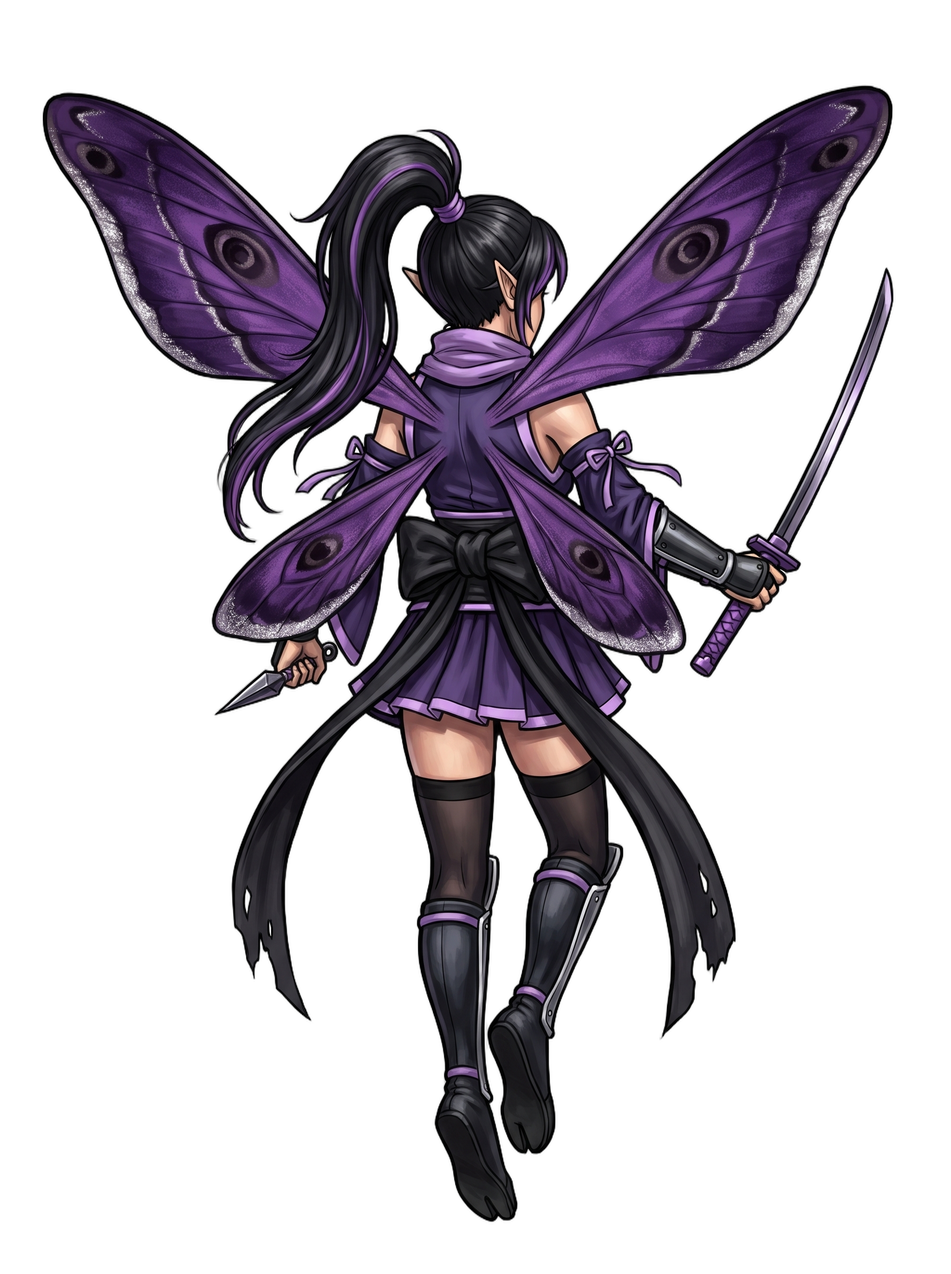
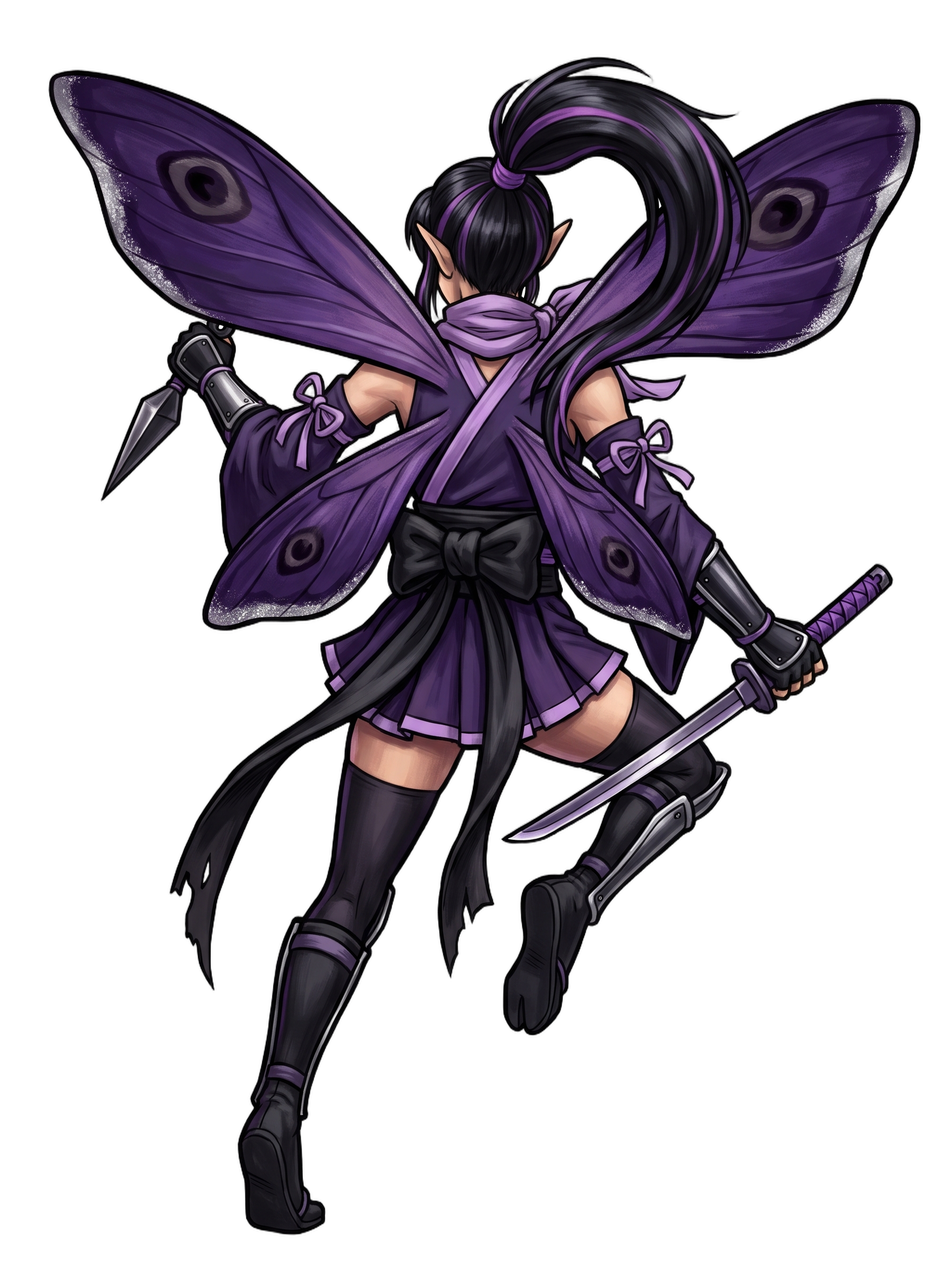
에이다 백뷰 확정, 카스미 백뷰 역동 자세로 교체
- 에이다 백뷰 확정 (첨부 방식, 날개 복사 방지 문장 추가)
- 동료 백뷰 지시문에 날개 복사 방지 문장 기본 포함
- 첨부 방식 자세 해제 시험(지시문, 2단계 편집) 실패 기록
- 주인공 역동/준비 자세 시험(dynamic, v4) 기록, 주인공은 v3 유지 결정
- 카스미 백뷰를 텍스트 전용 역동 준비 자세로 교체

diff --git a/docs/art_prompts/partners.md b/docs/art_prompts/partners.md
@@ -41,7 +41,7 @@
 
 블록 조합: `[LAYER_SPRITE_HEAD] + [VIEW] + [IDENTITY] + [FACE] + [OUTFIT] + [POSE] + [PALETTE] + [STYLE_BASE] + [LAYER_SPRITE_TAIL]`
 - `cutin`: VIEW_ILLUST + POSE_CUTIN (첨부: `fairy_base.png`, 지시문: 화풍 참고)
-- `battle_back`: 가이드 1.1.1 조합 (VIEW_BATTLE_BACK + IDENTITY_BACK + OUTFIT_BACK + POSE_BATTLE_BACK + STYLE_BASE_BACK, FACE 없음). 첨부: `assets/characters/fairy/fairy_battle_back.png`, 지시문: `Match the art style and composition of the attached image (a different character). Only the camera angle, framing, hovering stance and art style follow the attached image; the character, outfit and colors are entirely different, as described below.` (가이드 규칙 8). 동료별 IDENTITY_BACK/OUTFIT_BACK은 백뷰 생성 시 작성하고, 아래 POSE_BATTLE_BACK도 그때 대기 자세(공중 제자리, 오른쪽 위 주시)로 다시 쓴다.
+- `battle_back`: 가이드 1.1.1 조합 (VIEW_BATTLE_BACK + IDENTITY_BACK + OUTFIT_BACK + POSE_BATTLE_BACK + STYLE_BASE_BACK, FACE 없음). 첨부: `assets/characters/fairy/fairy_battle_back.png`, 지시문: `Match the art style and composition of the attached image (a different character). Only the camera angle, framing, hovering stance and art style follow the attached image; the character, outfit and colors are entirely different, as described below. Do not copy the wings of the attached image; draw the wings exactly as described in the text.` (가이드 규칙 8. 날개 문장은 2026-11-12 에이다 1차에서 날개 모양이 주인공 것을 따라가 추가). 동료별 IDENTITY_BACK/OUTFIT_BACK은 백뷰 생성 시 작성하고, 아래 POSE_BATTLE_BACK도 그때 대기 자세(공중 제자리, 오른쪽 위 주시)로 다시 쓴다.
 - FACE는 캐릭터별 블록에 적힌 종류를 쓴다. 비요른은 FACE 없이 조합한다. `battle_back`은 얼굴이 보이지 않아야 하므로 전원 FACE 없이 조합한다 (2026-11-11 추가).
 
 **FACE_FEMALE** (여성 동료 공통)
@@ -107,9 +107,17 @@ Color palette: gold, brass, midnight blue, honey yellow, brown leather.
 ```
 Pose: floating in mid-air raising the hourglass staff high with one hand, holding up the open pocket watch toward the viewer with the other, cheerful wink.
 ```
-**POSE_BATTLE_BACK**
+**IDENTITY_BACK** (전투 백뷰 전용, 2026-11-12 추가. 눈·미소·이마의 고글 렌즈 삭제, 고글은 뒤통수 가죽끈으로 표기)
 ```
-Pose: floating facing away from the viewer toward the enemy, hourglass staff held up, tailcoat tails and bustle skirt, hair buns with goggles and golden gear-patterned wings clearly visible.
+Her back is toward the viewer; only the back of her head, her two hair buns and the strap of her goggles are visible. A petite youthful girl fairy, 5 heads tall, seen from behind. Long pointed elf ear tips poking out from both sides of the back of her head. Honey-gold hair in two buns with short loose tails, a brown leather goggle strap with small brass buckles wrapped around the back of her head between the buns. Four opaque metallic golden butterfly wings shaped like a real butterfly's: two broad rounded upper wings with wide scalloped outer edges and two smaller rounded lower wings with short tails, rich golden yellow with intricate embossed clockwork gear filigree patterns, growing from her upper back between the shoulder blades, spread wide and caught mid-beat.
+```
+**OUTFIT_BACK** (전투 백뷰 전용, 2026-11-12 추가. 라펠 자수·조끼·블라우스 리본 타이·앞치마 주머니 공구 삭제, 앞치마는 허리 뒤 끈 매듭으로 표기)
+```
+Wearing a fantasy-adapted Victorian-era clockmaker outfit seen from the back: the back of a cropped midnight blue tailcoat jacket with short puffed sleeves, the pale yellow high collar of her blouse peeking above it, two long midnight blue coat tails hanging down from the back of the jacket over her skirt, detached midnight blue wrist cuffs with gold vine and star embroidery and gear-shaped buttons, brown leather apron strings tied in a small bow at the back of her waist, a short ruffled midnight blue bustle skirt above the knees with a gathered bustle puff at the back and a honey yellow lace petticoat peeking below, a brass pocket watch hanging from a chain at her hip, midnight blue and grey striped stockings and knee-high brown boots with triple side buckles and small gear ornaments seen from behind. Props: a brass staff topped with a large ornate hourglass with golden sand encircled by brass orrery rings, and an open brass pocket watch on a long gold chain. No cape or cloak on the shoulders, wings fully visible.
+```
+**POSE_BATTLE_BACK** (2026-11-12 갱신. 첨부 방식에서 기준 백뷰 자세를 따르므로 지팡이를 오른쪽 옆에 세워 든 자세로 맞춤)
+```
+Pose: poised battle-ready stance while hovering in place in mid-air, not attacking yet, calmly watching the distant opponent in the upper right, right hand holding the hourglass staff upright at her side, left hand holding the open pocket watch on its chain near her hip, legs hanging below her, wings beating steadily to hover, coat tails and bustle skirt swaying gently.
 ```
 
 ### 3.3 비요른 (`bjorn`) - 화염 대장장이 / 노르드(바이킹) 대장장이
@@ -344,7 +352,7 @@ Pose: floating facing away from the viewer toward the enemy, arms spread with pr
 | 동료 | `cutin_[영문명].png` (VIEW_ILLUST) | `battle_back_[영문명].png` (VIEW_BATTLE_BACK) |
 |---|---|---|
 | 카스미 | 확정 | 확정 |
-| 에이다 | 확정 | 미생성 |
+| 에이다 | 확정 | 확정 |
 | 비요른 | 확정 | 미생성 |
 | 록사나 | 확정 | 미생성 |
 | 카밀라 | 확정 | 미생성 |
@@ -384,3 +392,9 @@ Pose: floating facing away from the viewer toward the enemy, arms spread with pr
 - 2026-11-11 `battle_back_kasumi.png` 시험 생성 3회 (모두 미채택, 첨부 `cutin_kasumi.png` + 지시문 `Same character as the attached image.`): 1차 — 몸은 오른쪽을 향하고 고개를 어깨 너머로 돌려 옆얼굴이 보임. 2차 — battle_back에서 FACE 블록 제외 + VIEW_BATTLE_BACK에 몸·머리 방향 일치·얼굴 비노출 문장 추가, 얼굴은 가려졌으나 몸이 오른쪽 위 대각선을 향함 (1차와 구도 거의 동일). 3차 — `Rear back view`로 바꾸고 화면 위쪽으로 곧게 향하는 문장 추가, 방향은 맞았으나 몸통·팔이 날개 위에 그려져 날개가 가슴 쪽에 달린 앞뒤 관계가 됨 (`assets/test/battle_back_kasumi_v3_test.png`). 이후 날개가 등 위(보는 사람 쪽)에 겹쳐 그려지도록 하는 문장을 VIEW_BATTLE_BACK에 추가했으나 생성 전 중단. 사용자 판단으로 다음 세션에 뒷모습 일러를 처음부터(접근 방식 재검토) 다시 시작한다. 체크리스트는 `미생성` 유지.
 - 2026-11-12 `battle_back_kasumi.png` 확정 (1차, 첨부 방식): 첨부 `assets/characters/fairy/fairy_battle_back.png` + 지시문(3장 `battle_back` 항목) + LAYER_SPRITE_HEAD + VIEW_BATTLE_BACK + 카스미 IDENTITY_BACK + OUTFIT_BACK + POSE_BATTLE_BACK + PALETTE + STYLE_BASE_BACK + LAYER_SPRITE_TAIL. 주인공의 색·의상 번짐 없음. 단 자세가 기준 백뷰와 거의 같게 생성됨 (무기를 오른쪽 옆에 세워 든 자세, 웅크린 자세 미반영). 같은 블록을 첨부 없이 텍스트로만 생성한 결과는 사용자 판단으로 첨부 결과보다 품질이 낮아 미채택 (파일 미저장). 자세는 추후 개선 여지가 있으면 재시도한다. 최종 프롬프트 전문:
   `Match the art style and composition of the attached image (a different character). Only the camera angle, framing, hovering stance and art style follow the attached image; the character, outfit and colors are entirely different, as described below. Full body character illustration, entire figure inside the frame from head to feet, centered, no text, no letters, no watermark, no borders, no ground shadow, no background effects. Vertical 3:4 portrait composition. Rear three-quarter back view, camera directly behind the character at the character's own height, the character turned away from the viewer and angled toward an opponent far away in the upper right of the screen, 2.5D game sprite. The back is toward the viewer, the head pointing the same direction as the body, toward the upper right. Her back is toward the viewer; only the back of her head and her high ponytail are visible. A lean and agile female fairy, a young adult in her early twenties, 7 heads tall, seen from behind. Long pointed elf ear tips poking out from both sides of the back of her head. Black hair tied in a long high ponytail with a violet hair tie, several violet streaks running through the ponytail, the ponytail swinging behind her. Four large deep violet moth wings with dark eyespot patterns and silver-dusted edges, growing from her upper back between the shoulder blades, spread wide and caught mid-beat. Wearing a fantasy-adapted Japanese kunoichi (female ninja) outfit seen from the back: the back of a short sleeveless dark violet kimono-style wrap top with lavender trim leaving her shoulders bare, a lavender cloth scarf wrapped around her neck with its knot at the side, detached dark violet kimono sleeves tied with lavender ribbon bows at the upper arms and wrists, a black obi sash around her waist with a large black bow knot at the back and long tattered black obi tails flowing down from the back of her waist, a very short dark violet pleated hakama-style skirt with lavender trim, black tekko arm guards with silver plates over black fingerless gloves, black thigh-high stockings with knee-high black kyahan shin guards with silver plates and black split-toe tabi boots seen from behind. Weapons: a short straight ninjato with a violet-wrapped grip and a square guard, and a kunai. No cape or cloak on the shoulders, wings fully visible. Pose: poised battle-ready stance while hovering in place in mid-air, not attacking yet, calmly watching the distant opponent in the upper right, body in a slight low crouch leaning forward, right hand holding the ninjato in a forward grip low at her side with the blade angled toward the opponent, left hand holding a kunai ready near her hip, knees bent with legs hanging below her, wings beating steadily to hover, ponytail and long obi tails swaying gently. Color palette: deep violet, black, silver, lavender. Art style: bold, thick, dark comic ink outlines with sharp chiseled edges on the body, clothing, props and wings (American cartoon inspired dynamic linework), combined with rich vintage European painterly texture, visible gouache and oil brushstrokes, strong dramatic chiaroscuro lighting with deep, clearly defined form shadows on the body and clothing, pronounced volumetric three-dimensional shading. isolated on solid white background`
+- 2026-11-12 `battle_back_ada.png` 1차 생성 (미채택, 2차가 덮어씀): 카스미와 같은 첨부 방식. 색·의상 번짐 없음. 단 날개가 첨부 이미지(주인공)의 길쭉하고 뾰족한 잠자리형 날개 모양을 따라 생성되어 색·문양만 에이다 것으로 바뀜 (카스미는 나방 날개로 정상 생성되었으므로 날개 모양이 기준 백뷰와 다른 동료에서 발생). 연미복 뒷자락이 주인공 반망토처럼 발목까지 긴 두 갈래 천으로 생성됨.
+- 2026-11-12 `battle_back_ada.png` 확정 (2차): 첨부 `assets/characters/fairy/fairy_battle_back.png` + 지시문(3장 `battle_back` 항목, 날개 문장 포함) + LAYER_SPRITE_HEAD + VIEW_BATTLE_BACK + 에이다 IDENTITY_BACK + OUTFIT_BACK + POSE_BATTLE_BACK + PALETTE + STYLE_BASE_BACK + LAYER_SPRITE_TAIL. 지시문에 `Do not copy the wings of the attached image; draw the wings exactly as described in the text.`를 붙이고 IDENTITY_BACK의 날개를 실제 나비 형태(넓고 둥근 윗날개, 작은 아랫날개)로 구체화하자 나비 날개로 생성됨. 결과에서 아랫날개 끝에 긴 꼬리(호랑나비형)가 생성됨. 연미복 뒷자락은 무릎 길이로 생성됨. 자세는 기준 백뷰와 같음(지팡이를 오른쪽 옆에 세워 듦, 프롬프트도 이에 맞춤). 체형은 5~6등신. 최종 프롬프트 전문:
+  `Match the art style and composition of the attached image (a different character). Only the camera angle, framing, hovering stance and art style follow the attached image; the character, outfit and colors are entirely different, as described below. Do not copy the wings of the attached image; draw the wings exactly as described in the text. Full body character illustration, entire figure inside the frame from head to feet, centered, no text, no letters, no watermark, no borders, no ground shadow, no background effects. Vertical 3:4 portrait composition. Rear three-quarter back view, camera directly behind the character at the character's own height, the character turned away from the viewer and angled toward an opponent far away in the upper right of the screen, 2.5D game sprite. The back is toward the viewer, the head pointing the same direction as the body, toward the upper right. Her back is toward the viewer; only the back of her head, her two hair buns and the strap of her goggles are visible. A petite youthful girl fairy, 5 heads tall, seen from behind. Long pointed elf ear tips poking out from both sides of the back of her head. Honey-gold hair in two buns with short loose tails, a brown leather goggle strap with small brass buckles wrapped around the back of her head between the buns. Four opaque metallic golden butterfly wings shaped like a real butterfly's: two broad rounded upper wings with wide scalloped outer edges and two smaller rounded lower wings with short tails, rich golden yellow with intricate embossed clockwork gear filigree patterns, growing from her upper back between the shoulder blades, spread wide and caught mid-beat. Wearing a fantasy-adapted Victorian-era clockmaker outfit seen from the back: the back of a cropped midnight blue tailcoat jacket with short puffed sleeves, the pale yellow high collar of her blouse peeking above it, two long midnight blue coat tails hanging down from the back of the jacket over her skirt, detached midnight blue wrist cuffs with gold vine and star embroidery and gear-shaped buttons, brown leather apron strings tied in a small bow at the back of her waist, a short ruffled midnight blue bustle skirt above the knees with a gathered bustle puff at the back and a honey yellow lace petticoat peeking below, a brass pocket watch hanging from a chain at her hip, midnight blue and grey striped stockings and knee-high brown boots with triple side buckles and small gear ornaments seen from behind. Props: a brass staff topped with a large ornate hourglass with golden sand encircled by brass orrery rings, and an open brass pocket watch on a long gold chain. No cape or cloak on the shoulders, wings fully visible. Pose: poised battle-ready stance while hovering in place in mid-air, not attacking yet, calmly watching the distant opponent in the upper right, right hand holding the hourglass staff upright at her side, left hand holding the open pocket watch on its chain near her hip, legs hanging below her, wings beating steadily to hover, coat tails and bustle skirt swaying gently. Color palette: gold, brass, midnight blue, honey yellow, brown leather. Art style: bold, thick, dark comic ink outlines with sharp chiseled edges on the body, clothing, props and wings (American cartoon inspired dynamic linework), combined with rich vintage European painterly texture, visible gouache and oil brushstrokes, strong dramatic chiaroscuro lighting with deep, clearly defined form shadows on the body and clothing, pronounced volumetric three-dimensional shading. isolated on solid white background`
+- 2026-11-12 `battle_back_kasumi.png` 교체 확정 (2차, 1차 덮어씀, 원본 사본 `assets/test/battle_back_kasumi_v4style_test.png`): 사용자 결정으로 주인공은 기준 백뷰 v3를 유지하고 동료만 역동적인 전투 준비 자세로 생성. 첨부 없음(텍스트만). 사용자가 외부 매뉴얼 원칙(자세 블록 최상단, 무기를 손 동작과 결합, 비유·부정어 최소화, 카메라 시점 단일화)으로 작성한 프롬프트 사용. 결과에서 쿠나이를 왼쪽 어깨 높이로 치켜든 고유 자세가 반영되어 주인공과 다른 실루엣 확보, 얼굴 비노출, 품질은 첨부 방식 1차와 대등. 닌자도는 프롬프트(정방향)와 달리 역수로 생성됨. 등에 라벤더 X자 끈(타스키)이 임의 생성됨. 다리는 웅크림보다 도약에 가까움. 블록(POSE_BATTLE_BACK, OUTFIT_BACK) 및 가이드 조합 순서 갱신은 별도 작업으로 진행 예정. 최종 프롬프트 전문:
+  `Full body character illustration, vertical 3:4 portrait composition, entire figure inside the frame from head to feet, centered, isolated on solid white background. Low-angle from behind and slightly to her left, rear back view. Pose: tightly compressed mid-air ready stance, locked onto a distant opponent in the upper right. Torso aggressively leaning forward and slightly twisted. Right hand securely gripping a short straight ninjato (violet-wrapped grip, square guard) in a forward grip low at her right side, blade angled sharply forward toward the opponent. Left hand raised high near her left shoulder, tightly holding a single kunai ready to throw. Knees drawn up tightly beneath her torso, legs compressed like a loaded spring while hovering in mid-air. Wings held wide and steady in a powerful hovering beat. Ponytail and long obi tails swaying with intense kinetic tension. A lean and agile female fairy, young adult, 7 heads tall, seen from behind. Back of her head and high ponytail are clearly visible, head pointing toward the upper right. Long pointed elf ear tips poking out. Black hair tied in a long high ponytail with a violet hair tie, several violet streaks running through the ponytail. Four large deep violet moth wings with dark eyespot patterns and silver-dusted edges, growing from her upper back between the shoulder blades. Wearing a fantasy-adapted Japanese kunoichi outfit seen from the back: short sleeveless dark violet kimono-style wrap top with lavender trim leaving her shoulders bare. Lavender cloth scarf wrapped around her neck with its knot at the side. Detached dark violet kimono sleeves tied with lavender ribbon bows at the upper arms and wrists. Black obi sash around her waist with a large black bow knot at the back, long tattered black obi tails hanging down. Very short dark violet pleated hakama-style skirt with lavender trim. Black tekko arm guards with silver plates over black fingerless gloves. Black thigh-high stockings, knee-high black kyahan shin guards with silver plates, and black split-toe tabi boots seen from behind. Color palette: deep violet, black, silver, lavender. Art style: bold, thick, dark comic ink outlines with sharp chiseled edges (American cartoon inspired dynamic linework), combined with rich vintage European painterly texture, visible gouache and oil brushstrokes, strong dramatic chiaroscuro lighting, deep clearly defined form shadows, pronounced volumetric three-dimensional shading. No text, no letters, no watermark, no borders, no ground shadow, no background effects.`
+- 2026-11-12 `battle_back_ada.png`는 첨부 방식(기준 백뷰 v3 자세)으로 확정되었으므로, 동료 역동 자세 방침에 따라 재생성 대상.

diff --git a/docs/art_style_guide.md b/docs/art_style_guide.md
@@ -133,7 +133,7 @@ Subtle canvas and aged paper grain texture.
 8. **백뷰 에셋 생성 (2026-11-12 갱신):** `VIEW_BATTLE_BACK` 에셋은 얼굴이 보이지 않으므로 머리 색/포니테일, 모자, 허리 반망토, 날개 등 뒷모습에서 보이는 요소로 캐릭터를 식별한다. 조합은 1.1.1을 따른다.
    - **정면 이미지 첨부 금지:** 정면 일러스트(`fairy_base.png`, 동료 `cutin`)를 첨부하면 Gemini가 원본을 편집하는 방식으로 처리하여 몸은 정면 그대로 두고 고개만 돌린다 (규칙 11과 같은 현상). 텍스트에서 정면 묘사를 지워도 해결되지 않았다.
    - **기준 백뷰:** 주인공 백뷰 `assets/characters/fairy/fairy_battle_back.png`는 첨부 없이 텍스트로만 생성하여 확정했다. 이후 백뷰의 구도·화풍 통일을 위한 기준 백뷰로 쓴다.
-   - **동료 백뷰:** `fairy_battle_back.png` 첨부 + 지시문(`partners.md` 3장 `battle_back` 항목) + 동료 백뷰 블록으로 생성한다. 2026-11-12 카스미에서 검증: 주인공의 색·의상은 번지지 않았고, 텍스트 전용 생성보다 품질이 좋아 첨부 방식을 채택했다. 단 **자세가 기준 백뷰를 거의 그대로 따른다** (POSE의 웅크림 등 개별 자세 지시가 반영되지 않음). 캐릭터별 자세 차별화는 추후 과제로 둔다. 색이 번지는 동료가 나오면 `recolor ... (not ...)` 지시를 추가한다.
+   - **동료 백뷰:** `fairy_battle_back.png` 첨부 + 지시문(`partners.md` 3장 `battle_back` 항목) + 동료 백뷰 블록으로 생성한다. 2026-11-12 카스미에서 검증: 주인공의 색·의상은 번지지 않았고, 텍스트 전용 생성보다 품질이 좋아 첨부 방식을 채택했다. 단 **자세가 기준 백뷰를 거의 그대로 따른다** (POSE의 웅크림 등 개별 자세 지시가 반영되지 않음). 캐릭터별 자세 차별화는 추후 과제로 둔다. 색이 번지는 동료가 나오면 `recolor ... (not ...)` 지시를 추가한다. 날개 모양이 기준 백뷰(길쭉한 잠자리형)와 다른 동료는 기준 백뷰의 날개 모양을 따라가므로, 지시문에 규칙 1의 날개 문장을 붙이고 날개 형태를 구체적으로 쓴다 (2026-11-12 에이다에서 확인).
    - **자세:** 전투 백뷰는 공격 전 대기 상태 일러스트다. 공격 동작(돌진, 찌르기)이 아니라 공중에 떠서 적을 주시하는 준비 자세로 쓴다.
 9. **모션은 단일 대표 자세로 생성:** 프로토타입은 모션당 이미지 1장 + Canvas 절차적 모션으로 구현한다(기획서 1.3). 프레임 연속 이미지를 만들지 않고, 정지 상태에서도 동작이 한눈에 읽히는 대표 자세 1장으로 생성한다.
 10. **날개 캐릭터 망토 금지:** 날개가 있는 캐릭터(주인공, 동료 등)는 어깨나 목에서 늘어져 등 위쪽(날개 뿌리)을 덮는 망토/클로크/케이프를 착용하지 않는다. 날개 뿌리와 겹쳐 설정상 어색하고, 백뷰에서 날개와 망토가 서로를 가려 식별성이 떨어진다.
@@ -168,5 +168,11 @@ Subtle canvas and aged paper grain texture.
 | 2026-11-12 | `assets/characters/fairy/fairy_battle_back.png` | v3. 공중 제자리 준비 자세로 변경. 망토가 기준 이미지처럼 두 갈래 긴 반망토로 생성. 방향성은 v2보다 약하나 대기 일러스트로 적합하여 기준 백뷰로 확정 |
 | 2026-11-12 | `assets/characters/partners/battle_back_kasumi.png` | `fairy_battle_back.png` 첨부 + 구도·화풍만 따르라는 지시문. 색·의상 번짐 없음, 각도·크기 통일. 단 자세가 주인공과 거의 동일하고 웅크림 지시 미반영 → 규칙 8 동료 백뷰 항목 갱신 |
 | 2026-11-12 | (카스미 백뷰 텍스트 전용, 파일 미저장) | 같은 블록에서 첨부 문장만 삭제. 사용자 판단으로 첨부 결과보다 품질이 낮아 미채택 |
+| 2026-11-12 | `assets/characters/partners/battle_back_ada.png` | 1차: 날개가 기준 백뷰의 잠자리형 모양을 따라감(색·문양만 에이다 것). 2차: 지시문에 날개 문장 추가 + 나비 날개 형태 구체화로 나비 날개 생성, 확정 → 규칙 8 동료 백뷰 항목 보강 |
+| 2026-11-12 | `assets/test/battle_back_kasumi_pose_test.png` | 지시문의 따를 항목에서 `hovering stance` 삭제, `pose`를 다른 항목에 추가, `Do not copy the pose of the attached image; draw the pose exactly as described in the text.` 추가. 결과는 확정본과 거의 동일한 자세(웅크림 미반영) → 날개와 달리 자세는 문장으로 풀리지 않음 |
+| 2026-11-12 | `assets/test/battle_back_kasumi_pose_edit_test.png` | 위 결과를 만든 채팅에서 이어서 "자세만 변경" 편집 요청 (2단계 편집). 다리만 바뀜: 무릎을 굽혀 접어 올리고 발바닥이 보이는 자세. 상체 기울임·팔 뻗기·칼 방향은 미반영(상체는 원본과 동일). 다리가 짧아진 만큼 하단 여백이 생김. 얼굴 노출·의상 변형 없음 |
+| 2026-11-12 | `assets/test/fairy_battle_back_dynamic_test.png` | 사용자가 외부 팁으로 재구성한 텍스트 전용 프롬프트(자세 블록을 맨 앞으로, 부정어 삭제, 반망토를 갈라 다리 노출, 압축된 상체·비대칭 팔다리·격렬한 휘날림). 자세가 크게 바뀌어 역동성 확보, 디자인 일관성 유지. 단 몸이 오른쪽 측면을 향해 옆얼굴 윤곽이 보이고, 휘날림 표현 때문에 대기가 아닌 공격 동작으로 읽힘. 배경 미제거 원본 |
+| 2026-11-12 | `assets/test/fairy_battle_back_v4_test.png` | 위 프롬프트에서 움직임 표현을 정지된 긴장(`held perfectly still`, 출발 신호 직전의 Set 자세 비유)으로 교체, 방향을 `Back view from behind and slightly to her left ... facing into the screen`으로 수정. 방향이 화면 안쪽(오른쪽 위)으로 돌아오고 망토·머리가 차분해져 정지 상태로 읽힘. 크라우칭 스타트 오해 없음. 단 칼끝이 오른쪽 아래를 향하고 왼팔이 왼쪽 옆으로 뻗어 적을 겨누는 긴장감이 약함 |
+| 2026-11-12 | `assets/test/battle_back_kasumi_v4style_test.png` | 사용자 결정: 주인공은 v3 유지, 동료만 역동적 준비 자세. 첨부 없이 사용자가 외부 매뉴얼 원칙(자세 최상단, 무기+손 결합, 비유·부정어 최소화, 단일 카메라 시점)으로 작성한 프롬프트로 생성 (전문은 partners.md 카스미 기록). `battle_back_kasumi.png`로 교체 확정. 고유 자세(쿠나이를 어깨 높이로 치켜듦, 닌자도 낮게) 반영, 주인공과 다른 실루엣 확보, 얼굴 비노출. 품질은 첨부 방식 확정본과 대등. 닌자도는 정방향 대신 역수로 생성, 등에 라벤더 X자 끈(타스키)이 임의 생성, 다리는 웅크림보다 도약에 가까움 |
 
 ※ 위 테스트 이미지는 2026-11-03 정리 시 `assets/test/`에서 삭제되었다. `fairy_base_sprite_test.png`, `lobby_fairy_idle_A_test.png`는 커밋 `cd7268e`에서 확인할 수 있으며, 나머지는 커밋되지 않은 중간 결과물이다. 확정 이미지는 각 캐릭터 시트의 체크리스트 경로를 따른다.
